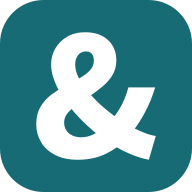
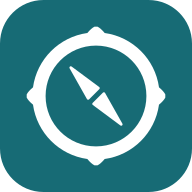
fix: 图标保留原来的罗盘圆环，只把旧站琥珀色换成网站青绿色
用户看过「&」方案后决定保留罗盘图案；颜色改成网站强调色 #176b75，
和站名前的圆点、按钮、报头一致。五个文件的尺寸与格式照旧。

Changed region(s): [[0.125, 0.125, 0.875, 0.875]]

diff --git a/myfnb/HANDOFF.md b/myfnb/HANDOFF.md
@@ -131,7 +131,7 @@ cd myfnbguide && git checkout claude/myfnb-handoff && git remote add upstream ht
 
 - `site.ts`：站名 `MyF&B`，行业词 `餐饮`，标语、首页标题、介绍见 §2.1；`locale: "zh-MY"`；`mcpPrefix: "myfnb"`（上线后不改）；联系邮箱 `myfb.guide.my@gmail.com`；`crawlerName: "MyFnBBot"`；页脚「由 AIHOT 开源框架驱动」（致谢）。关于页大标题「全球餐饮每天都有新消息，／值得看的，只有几条。」另加了 `subjectAfter()` 辅助函数（§5.5）。
 - `features.ts`：`leaderboard: false`、`codexResetMonitor: false`（两个 AI 专用模块关掉）。
-- `brand/`：MyF&B 图标与报头「餐饮日报／周报／月报」（`node scripts/nameplates.ts package` 生成）。没有用 AIHOT 的名字和 Logo。图标（2026-10-01 换）：白色「&」（Noto Sans SC Black，与报头同一字体）放在网站强调色 `#176b75` 的圆角方块上（圆角 116/512，同作者）；`apple-icon.png` 满版不透明，`favicon.ico` 含 16/32/48。原先沿用旧站的琥珀色罗盘圆环，和网站的青绿配色不搭，缩到 16px 还像「⊘ 禁止」标志。网站配色本身是作者的（`apps/web/app/app.css`），不改。
+- `brand/`：MyF&B 图标与报头「餐饮日报／周报／月报」（`node scripts/nameplates.ts package` 生成）。没有用 AIHOT 的名字和 Logo。图标：沿用旧站的罗盘圆环，2026-10-01 从旧站琥珀色 `#b45309` 改成网站强调色 `#176b75`（原先和网站的青绿配色不搭）；用户看过「&」等方案后决定保留罗盘，只换颜色。圆角 116/512（同作者），`apple-icon.png` 满版不透明，`favicon.ico` 含 16/32/48。网站配色本身是作者的（`apps/web/app/app.css`），不改。
 - `changelog.json`：首条「MyF&B 改版上线」，日期是试跑部署日 **2026-10-01**。
 - `pages/terms.md`、`privacy.md`：运营主体 CORE SYSTEM STUDIO（用户的 SSM Enterprise 商号，没写注册号；旧站也没写，要写就补在 terms.md 表格「运营主体」一行），生效日期 2026-10-01，马来西亚法律，PDPA（含 2024 修订 Act A1727），只放标题、摘要、来源名和原文链接；写明内容由 AI 自动生成、未经人工逐条审核，只报道不给建议，收录来源的规则，下架承诺，上线初期不接受赞助和广告（§5.6）。**上线日期变了，要同时改 changelog.json 和这两个文件的日期。**
 
